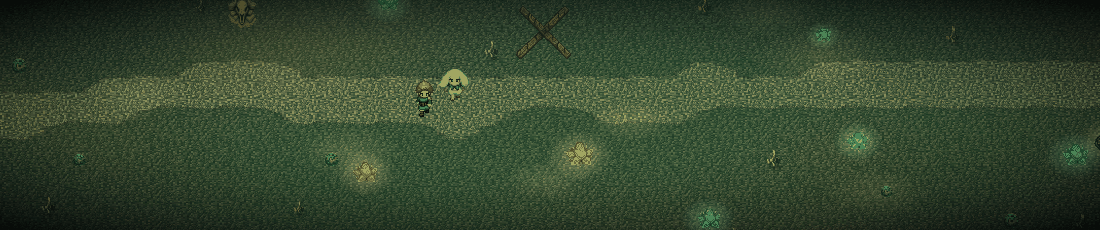
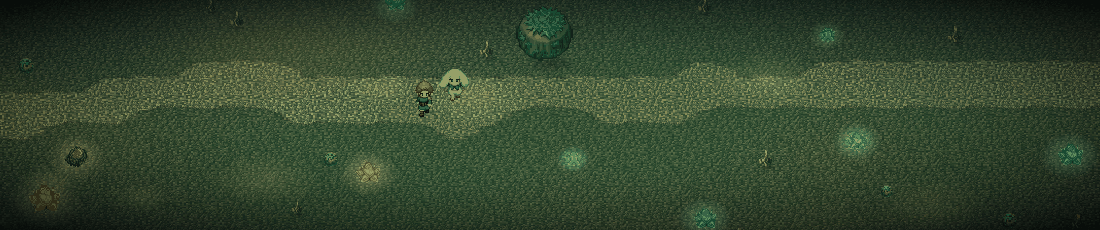
Tunnel caves' things in the way as many as fit; Meadowbrook's statue and gnomes more room
LandPlanTests: Rat Cavern's boulders (64 pixels, a cell kept from the paths)
fitted nowhere in its one-cell tunnels: dropped there. The Gooey Grotto and
the Whispering Hollow ask for no more boulders, beams, carts and stalagmites
than fit, boulders first. Meadowbrook's statue and gnomes found no room by the
square once main's new buildings stood round it: within 20 and 16.

Claude-Session: https://claude.ai/code/session_01A828hAE5V6eVoqTP3b8QbP

diff --git a/CLAUDE.md b/CLAUDE.md
@@ -248,7 +248,7 @@ people, bosses, quests) in player-facing text: `docs/fairyland-online.md` → Na
   passage's middle, and the mazes run everywhere): now never on a passage's middle, and only where the open cells
   round it stay one arc of five or more (`WorldMap.leavesWayRound`), so nothing cuts or narrows a way shut; the tunnel
   caves (Rat Cavern, the Gooey Grotto, the Whispering Hollow), a cell wide, hold only a few things in the way
-  (carts, beams, boulders, stalagmites, listed first, rarest first), and their crystals, amber, ore and moss rocks
+  (carts, beams, boulders, stalagmites, listed first, a few each; no boulders in Rat Cavern, too big for its tunnels), and their crystals, amber, ore and moss rocks
   are walked past, as are the Glimmerdeep's crystals, its spires and geodes first (the user's pick, 2026-11-21); and a
   town's well, statue and flower beds listed before its square's daisies, which had filled it first. Chicks live in a farm's yard (`Critters.home`). Debug `at=place`.
   Each kind of place is a landmark too (`WorldMap.landmark`: `at: "farm"`, `"ruin"`…, `which`): every land has a
